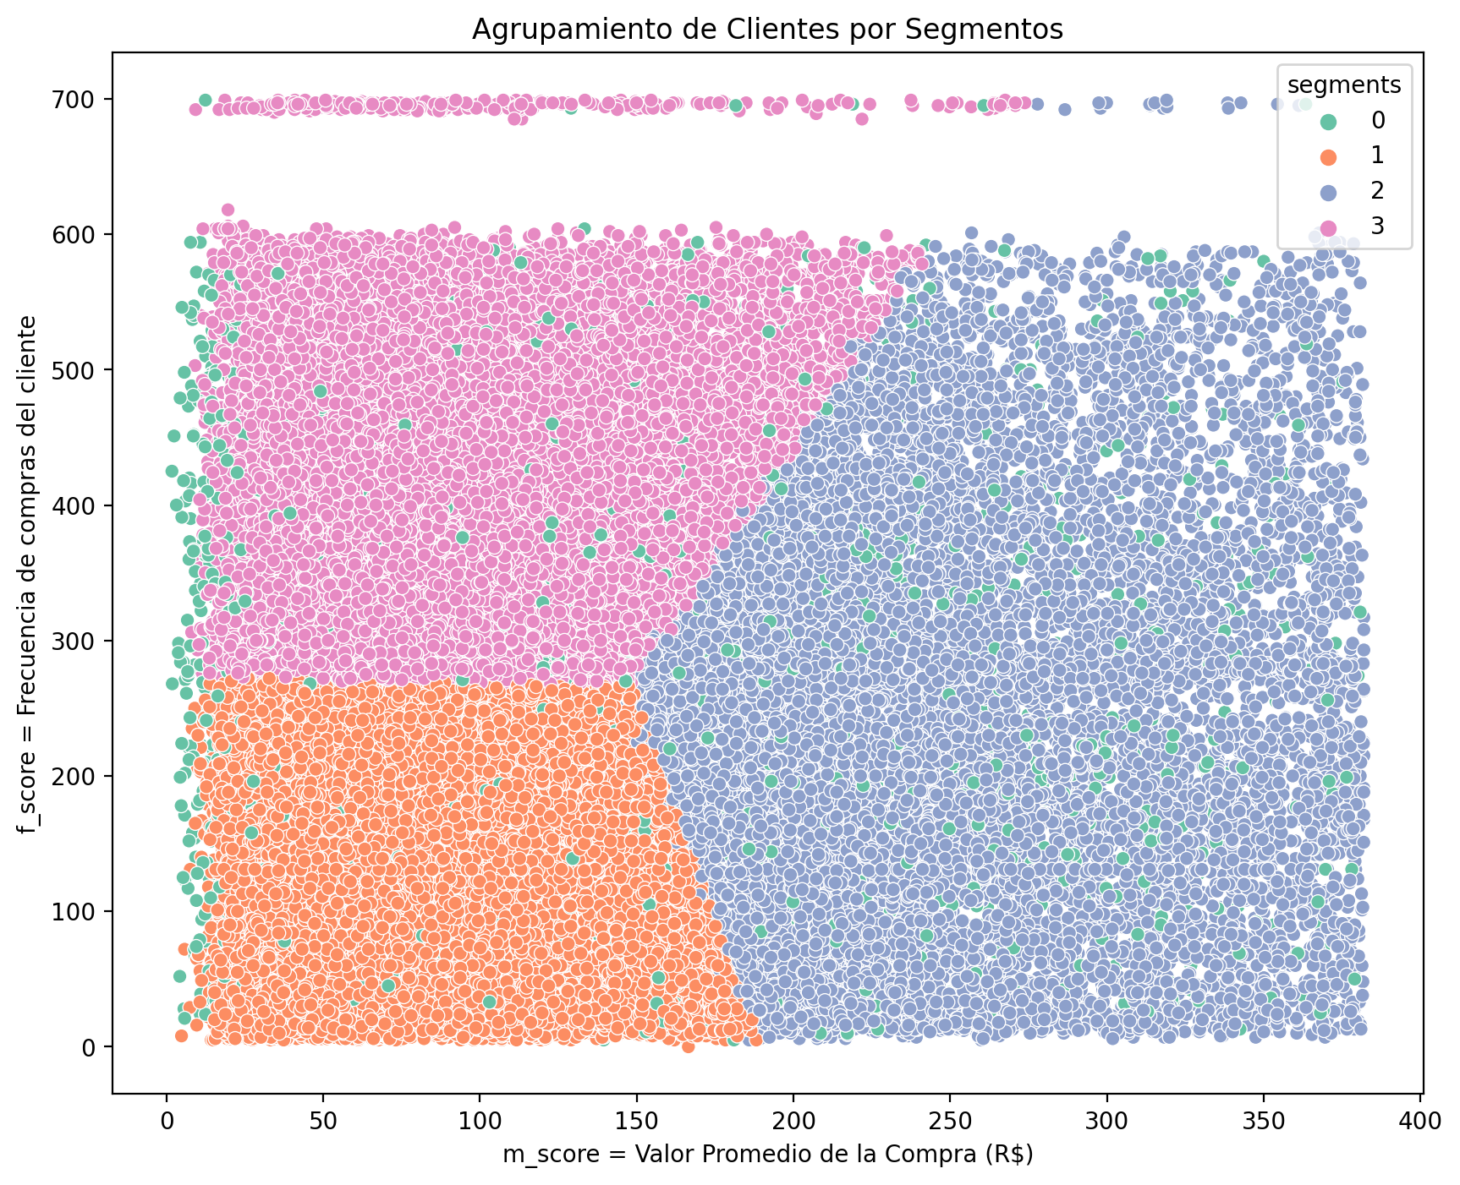
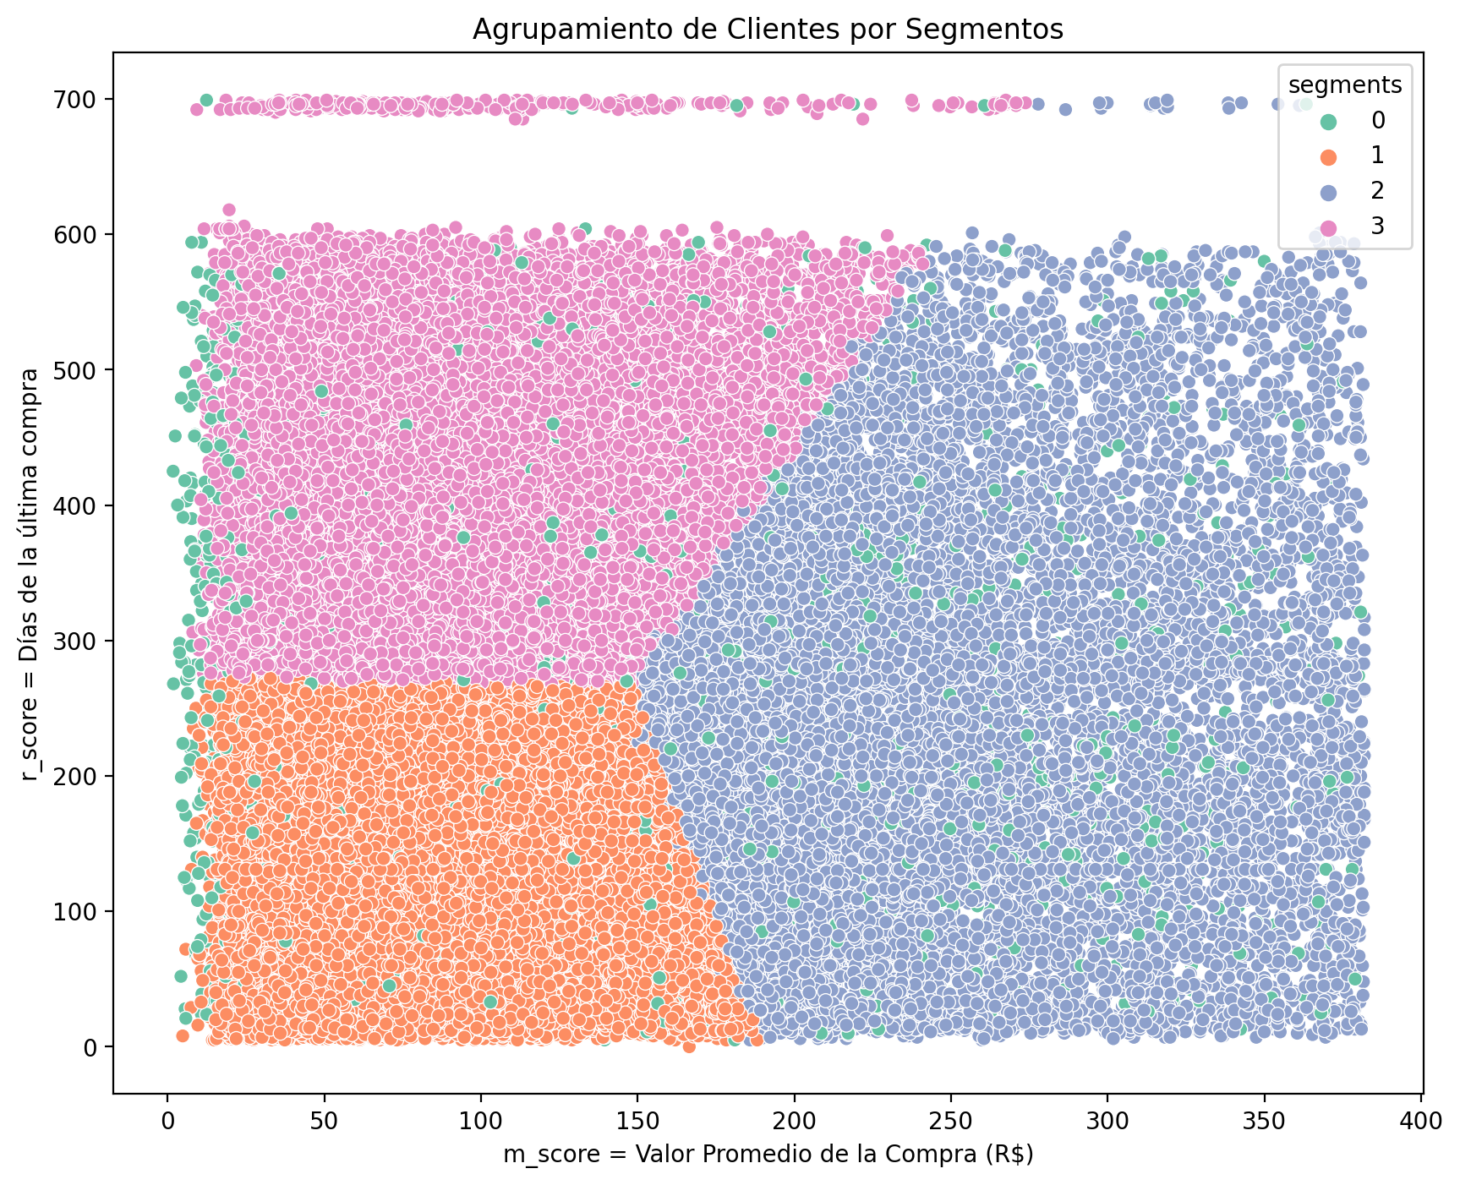
modificacion final

diff --git a/pages_st/ventas.py b/pages_st/ventas.py
@@ -1,3 +1,4 @@
+from matplotlib.pyplot import xlabel
 import streamlit as st
 import pandas as pd
 import plotly.express as px
@@ -51,7 +52,7 @@ def run():
 
     ## ! Gráfico 1: Ingresos Mensuales vs Número de Órdenes Mensuales
     
-    tabla_1 = data_final.loc[(data_final.purchase_year.isin(st.session_state.selected_options_year)) & data_final.purchase_month_name.isin(st.session_state.selected_options_month)].groupby("purchase_year_month")["payment_value"].agg(["count","sum"], axis="columns").reset_index().sort_values("purchase_year_month", ascending=False)
+    tabla_1 = data_final.loc[(data_final.purchase_year.isin(st.session_state.selected_options_year)) & data_final.purchase_month_name.isin(st.session_state.selected_options_month)&(data_final['order_status']=='delivered')].groupby("purchase_year_month")["payment_value"].agg(["count","sum"], axis="columns").reset_index().sort_values("purchase_year_month", ascending=False)
         
     fig_1 = make_subplots(specs=[[{"secondary_y": True}]])
     # Add figure title
@@ -82,8 +83,8 @@ def run():
     # Set x-axis title
     fig_1.update_xaxes(title_text="Meses",tickangle=-30)
     # Set y-axis title
-    fig_1.update_yaxes(title_text="Ingresos", secondary_y=False)
-    fig_1.update_yaxes(title_text="Órdenes", secondary_y=True)
+    fig_1.update_yaxes(title_text="Ingresos(R$)", secondary_y=False)
+    fig_1.update_yaxes(title_text="# Órdenes", secondary_y=True)
     # fig_1.show()
     col1.plotly_chart(fig_1, use_container_width=True)
 
@@ -128,23 +129,6 @@ def run():
         )
     )
 
-    # fig_2 = px.bar(tabla_2, x='status', y='percentage')
-    # fig_2.update_xaxes(title_text="Estado de Órdenes")
-    # fig_2.update_yaxes(title_text="%")
-    # fig_2.update_layout(
-    #     title="Porcentaje de Estados de Órdenes",
-    #     hovermode='x unified',
-    #     paper_bgcolor='rgba(0,0,0,0)',
-    #     plot_bgcolor='rgba(0,0,0,0)',
-    #     font_color='black',
-    #     hoverlabel=dict(
-    #         bgcolor="black",
-    #         font_size=12,
-    #         font_color="black"
-    #         # font_family="Rockwell"
-    #     )
-    # )
-    # fig_2.update_traces(marker_color='LightSeaGreen')
     col2.plotly_chart(fig_2, use_container_width=True)
     tabla_2_csv = util.convert_df(tabla_2)
     col2.download_button(
@@ -202,7 +186,7 @@ def run():
     ## ! Gráfico 4: Ingresos de los Top 10 Categoría de Productos
     top_categ_by_revenue = data_final.loc[(data_final.purchase_year.isin(st.session_state.selected_options_year)) & data_final.purchase_month_name.isin(st.session_state.selected_options_month)].groupby("product_category_name").agg({'order_id':'nunique','payment_value':'sum'}).sort_values("payment_value", ascending=False)
     top_categ_by_revenue.rename(columns={"order_id":"NumOfOrders", "payment_value":"Revenues"}, inplace=True)
-    top_categ_by_revenue = top_categ_by_revenue[:10].reset_index()
+    top_categ_by_revenue = top_categ_by_revenue[:5].reset_index()
     top_categ_by_revenue = top_categ_by_revenue.sort_values('Revenues',ascending=True)
     top_categ_by_revenue['product_category_name'] = top_categ_by_revenue['product_category_name'].apply(lambda x : x.capitalize().replace('_'," "))
 
@@ -216,9 +200,14 @@ def run():
         orientation='h'
     ),1,1)
 
+    fig_4.update_xaxes(title_text="Ingresos(R$)")
+    fig_4.update_yaxes(title_text="Categorías")
+
     fig_4.update_layout(
-        title='Ingresos de los Top 10 Categoría de Productos',
+        title='Ingresos de los Top 5 Categoría de Productos',
         hovermode='y unified',
+        # xlabel="Ingresos(R$)",
+        # ylabel="Categorías",
         legend=dict(x=0.029, y=1.038, font_size=50),
         margin=dict(l=150, r=20, t=60, b=50),
         plot_bgcolor= 'rgba(0, 0, 0, 0)',
@@ -313,21 +302,6 @@ def value_and_freight(df):
     df = filter(df)
 
     value, freight, merge_value_freight = value_freight_1(df)
-
-    # line1 = alt.Chart(freight).mark_line(stroke='red').encode(
-    #     alt.X('order_purchase_timestamp:T', axis=alt.Axis(title='Date')),
-    #     alt.Y('freight_value:Q', axis=alt.Axis(title='Total freight')),
-    #     tooltip=['order_purchase_timestamp', 'freight_value']
-    # ).interactive()
-
-    # line2 = alt.Chart(value).mark_line(stroke='blue').encode(
-    #     alt.X('order_purchase_timestamp:T', axis=alt.Axis(title='Date')),
-    #     alt.Y('payment_value:Q', axis=alt.Axis(title='Total sells')),
-    #     tooltip=['order_purchase_timestamp', 'payment_value']
-    # ).interactive()
-
-    # return alt.layer(line2, line1, background="transparent").resolve_scale(y='independent').configure_view(stroke=None).properties(title="Comportamiento de Ventas con Costo de Distribución")
-
 # ======================================================================= 
     fig_1 = make_subplots(specs=[[{"secondary_y": True}]])
     # Add figure title
@@ -346,11 +320,11 @@ def value_and_freight(df):
     )
     # Add traces
     fig_1.add_trace(
-        go.Scatter(x=list(freight['order_purchase_timestamp']), y=list(freight['freight_value']), name="Total freight",mode="lines+markers",marker=dict(size=5, color="#d4ad00")),
+        go.Scatter(x=list(freight['order_purchase_timestamp']), y=list(freight['freight_value']), name="Total freight(R$)",mode="lines+markers",marker=dict(size=5, color="#d4ad00")),
         secondary_y=False,
     )
     fig_1.add_trace(
-        go.Scatter(x=list(value['order_purchase_timestamp']), y=list(value['payment_value']), name="Total sells",mode="lines+markers",marker=dict(size=5, color="LightSeaGreen")),
+        go.Scatter(x=list(value['order_purchase_timestamp']), y=list(value['payment_value']), name="Total sells(R$)",mode="lines+markers",marker=dict(size=5, color="LightSeaGreen")),
         secondary_y=True,
     )
     fig_1['layout']['yaxis1']['showgrid'] = False
@@ -358,8 +332,8 @@ def value_and_freight(df):
     # Set x-axis title
     fig_1.update_xaxes(title_text="Meses",tickangle=-30)
     # Set y-axis title
-    fig_1.update_yaxes(title_text="Total freight", secondary_y=False)
-    fig_1.update_yaxes(title_text="Total sells", secondary_y=True)
+    fig_1.update_yaxes(title_text="Total freight(R$)", secondary_y=False)
+    fig_1.update_yaxes(title_text="Total sells(R$)", secondary_y=True)
     # fig_1.show()
     st.plotly_chart(fig_1, use_container_width=True)
 
@@ -399,12 +373,12 @@ def sells_total_and_seller(df):
 )
 
     line1 = base.mark_bar(opacity=0.5).encode(
-        alt.Y('sells_by_seller:Q', axis=alt.Axis(title='Sells by Seller')),
+        alt.Y('sells_by_seller:Q', axis=alt.Axis(title='Sells by Seller(R$)')),
         tooltip=[alt.Tooltip('seller_state_name', title='Seller State'), alt.Tooltip('total_sells', title='Total Sells'), alt.Tooltip('sells_by_seller', title='Sells by Seller'), alt.Tooltip('total_sellers', title='Total Sellers')]
     )
 
     line2 = base.mark_bar(color='red', opacity=0.3).encode(
-        alt.Y('total_sells:Q', axis=alt.Axis(title='Total Sells')),
+        alt.Y('total_sells:Q', axis=alt.Axis(title='Total Sells(R$)')),
         tooltip=[alt.Tooltip('seller_state_name', title='Seller State'), alt.Tooltip('total_sells', title='Total Sells'), alt.Tooltip('sells_by_seller', title='Sells by Seller'), alt.Tooltip('total_sellers', title='Total Sellers')]
     )
 
@@ -429,7 +403,7 @@ def total_value(df):
 
     grafico_8 = alt.Chart(value, background="transparent").mark_line().encode(
         alt.X('order_purchase_timestamp:T', axis=alt.Axis(title='Date')),
-        alt.Y('payment_value:Q', axis=alt.Axis(title='Total Sales')),
+        alt.Y('payment_value:Q', axis=alt.Axis(title='Total Sales(R$)')),
         color='seller_state_name',
         strokeDash='seller_state_name',
         tooltip='seller_state_name'

diff --git a/pages_st/distribucion.py b/pages_st/distribucion.py
@@ -70,17 +70,17 @@ def distance(df):
     
     alt.data_transformers.disable_max_rows()
     boxplot = alt.Chart(sellers_customers_by_state, background="transparent").mark_boxplot(outliers={'size':3}).encode(
-        alt.X('seller_state_name:O', axis=alt.Axis(title='State')),
+        alt.X('seller_state_name:O', axis=alt.Axis(title='Estado')),
         alt.Y('distance:Q'),
         color=alt.Color('seller_state_name', legend=None)
-    ).properties(
+    ).interactive().properties(
         width=800,
         title="Distancias de Entrega Entre Estados"
     )
 
     violin = alt.Chart(sellers_customers_by_state, background="transparent").transform_density(
         'distance',
-        as_=['Distance(Km)', 'density'],
+        as_=['Distance', 'density'],
         extent=[0, 4000],
         groupby=['seller_state_name']
     ).mark_area(orient='horizontal').encode(
@@ -126,8 +126,8 @@ def total_freight(df):
     freight = value_freight(df)[1]
 
     grafico_2 = alt.Chart(freight, background="transparent").mark_line().encode(
-        alt.X('order_purchase_timestamp:T', axis=alt.Axis(title='Date')),
-        alt.Y('freight_value:Q', axis=alt.Axis(title='Total Freight')),
+        alt.X('order_purchase_timestamp:T', axis=alt.Axis(title='Meses')),
+        alt.Y('freight_value:Q', axis=alt.Axis(title='Total Freight(R$)')),
         color='seller_state_name',
         strokeDash='seller_state_name',
         tooltip=['seller_state_name']

diff --git a/pages_st/segmentacion_old.py b/pages_st/segmentacion_old.py
@@ -132,7 +132,7 @@ def grafico2():
   plt.figure(figsize = (10,8))
   plt.title("Agrupamiento de Clientes por Segmentos")
   plt.xlabel('m_score = Valor Promedio de la Compra (R$)') 
-  plt.ylabel('f_score = Frecuencia de compras del cliente') 
+  plt.ylabel('r_score = Días de la última compra') 
   sns.scatterplot(x = x_axis, y = y_axis, hue = segment,
                   palette = 'Set2', legend = 'full')
   st.pyplot(plt)
